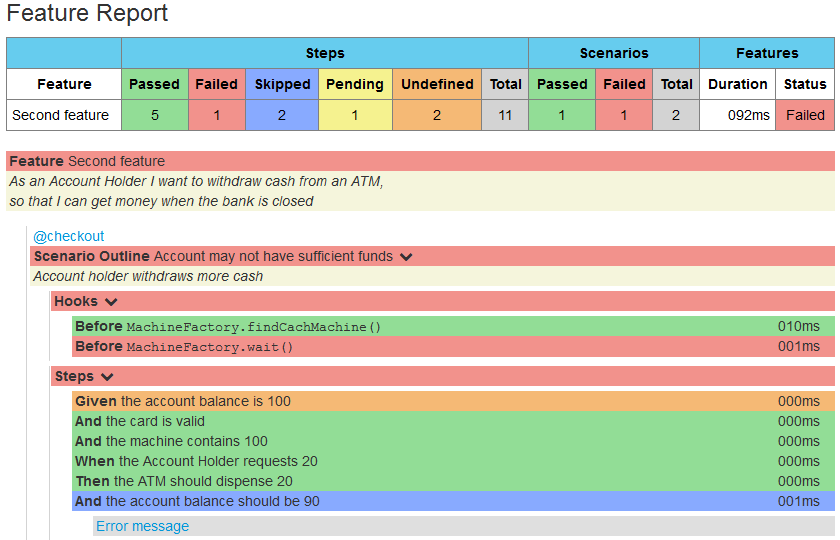
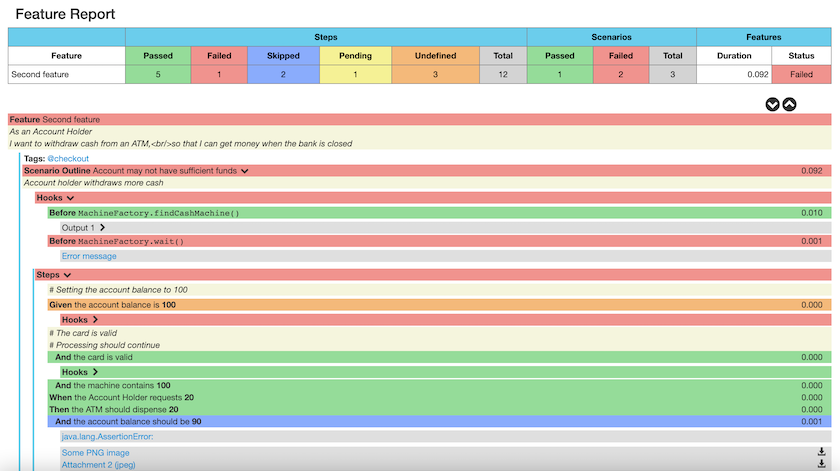
Include step comments in report (#1012)

diff --git a/src/main/resources/css/cucumber.css b/src/main/resources/css/cucumber.css
@@ -55,7 +55,7 @@ a:hover {
     box-shadow: -3px 0 #6ce;
 }
 
-.description {
+.description, .comment {
     font-style: italic;
     background-color: beige;
     white-space: pre;

diff --git a/src/main/java/net/masterthought/cucumber/json/Step.java b/src/main/java/net/masterthought/cucumber/json/Step.java
@@ -2,13 +2,15 @@ package net.masterthought.cucumber.json;
 
 import com.fasterxml.jackson.annotation.JsonProperty;
 import com.fasterxml.jackson.databind.annotation.JsonDeserialize;
-import org.apache.commons.lang3.ArrayUtils;
-
 import net.masterthought.cucumber.json.deserializers.OutputsDeserializer;
 import net.masterthought.cucumber.json.support.Argument;
 import net.masterthought.cucumber.json.support.Resultsable;
 import net.masterthought.cucumber.json.support.Status;
 import net.masterthought.cucumber.json.support.StatusCounter;
+import org.apache.commons.lang3.ArrayUtils;
+
+import java.util.ArrayList;
+import java.util.List;
 
 public class Step implements Resultsable {
 
@@ -16,6 +18,7 @@ public class Step implements Resultsable {
     private String name = null;
     private final String keyword = null;
     private Integer line = null;
+    private List<String> comments = new ArrayList<>();
     // create empty Result for all cases where step has no result
     // - happens for old or different cucumber implementation of the library
     private final Result result = new Result();
@@ -107,6 +110,10 @@ public class Step implements Resultsable {
 
     public Status getAfterStatus() {
         return afterStatus;
+    }
+
+    public List<String> getComments() {
+        return comments;
     }
 
     public void setMetaData() {

diff --git a/src/test/java/net/masterthought/cucumber/generators/integrations/FeatureReportPageIntegrationTest.java b/src/test/java/net/masterthought/cucumber/generators/integrations/FeatureReportPageIntegrationTest.java
@@ -1,14 +1,5 @@
 package net.masterthought.cucumber.generators.integrations;
 
-import static org.assertj.core.api.Assertions.assertThat;
-
-import java.io.File;
-import java.util.Arrays;
-import java.util.Collections;
-
-import org.apache.commons.lang.StringUtils;
-import org.junit.Test;
-
 import net.masterthought.cucumber.generators.FeatureReportPage;
 import net.masterthought.cucumber.generators.integrations.helpers.BriefAssertion;
 import net.masterthought.cucumber.generators.integrations.helpers.DocumentAssertion;
@@ -31,6 +22,14 @@ import net.masterthought.cucumber.json.Output;
 import net.masterthought.cucumber.json.Result;
 import net.masterthought.cucumber.json.Row;
 import net.masterthought.cucumber.json.Step;
+import org.apache.commons.lang.StringUtils;
+import org.junit.Test;
+
+import java.io.File;
+import java.util.Arrays;
+import java.util.Collections;
+
+import static org.assertj.core.api.Assertions.assertThat;
 
 /**
  * @author Damian Szczepanik (damianszczepanik@github)
@@ -235,6 +234,7 @@ public class FeatureReportPageIntegrationTest extends PageTest {
             assertThat(brief.getKeyword()).isEqualTo(step.getKeyword());
             assertThat(brief.getName()).isEqualTo(step.getName());
             brief.hasDuration(step.getDuration());
+            steps[i].hasComments(step.getComments());
         }
     }
 

diff --git a/src/test/java/net/masterthought/cucumber/json/StepTest.java b/src/test/java/net/masterthought/cucumber/json/StepTest.java
@@ -1,12 +1,13 @@
 package net.masterthought.cucumber.json;
 
-import static org.assertj.core.api.Assertions.assertThat;
-
+import net.masterthought.cucumber.generators.integrations.PageTest;
+import net.masterthought.cucumber.json.support.Status;
 import org.junit.Before;
 import org.junit.Test;
 
-import net.masterthought.cucumber.generators.integrations.PageTest;
-import net.masterthought.cucumber.json.support.Status;
+import java.util.List;
+
+import static org.assertj.core.api.Assertions.assertThat;
 
 /**
  * @author Damian Szczepanik (damianszczepanik@github)
@@ -261,5 +262,31 @@ public class StepTest extends PageTest {
 
         // then
         assertThat(status).isEqualTo(Status.PASSED);
+    }
+
+    @Test
+    public void getComments_ReturnsComments() {
+
+        // given
+        Step step = features.get(0).getElements()[0].getSteps()[0];
+
+        // when
+        List<String> keyword = step.getComments();
+
+        // then
+        assertThat(keyword).containsExactly("# Some comments", "# Some more comments");
+    }
+
+    @Test
+    public void getComments_ReturnsEmptyCommentList() {
+
+        // given
+        Step step = features.get(0).getElements()[0].getSteps()[1];
+
+        // when
+        List<String> keyword = step.getComments();
+
+        // then
+        assertThat(keyword).isEmpty();
     }
 }

diff --git a/src/test/java/net/masterthought/cucumber/generators/integrations/helpers/StepAssertion.java b/src/test/java/net/masterthought/cucumber/generators/integrations/helpers/StepAssertion.java
@@ -1,5 +1,13 @@
 package net.masterthought.cucumber.generators.integrations.helpers;
 
+import org.jsoup.nodes.Element;
+import org.jsoup.select.Elements;
+
+import java.util.List;
+
+import static java.util.stream.Collectors.toList;
+import static org.assertj.core.api.Assertions.assertThat;
+
 /**
  * @author Damian Szczepanik (damianszczepanik@github)
  */
@@ -36,5 +44,13 @@ public class StepAssertion extends ReportAssertion {
 
     public HooksAssertion getAfter() {
         return oneByClass("hooks-step-after", HooksAssertion.class);
+    }
+
+    public void hasComments(List<String> expectedComments) {
+        Elements elements = element.getElementsByClass("comment");
+        List<String> comments = elements.stream()
+                .map(Element::text)
+                .collect(toList());
+        assertThat(comments).isEqualTo(expectedComments);
     }
 }
